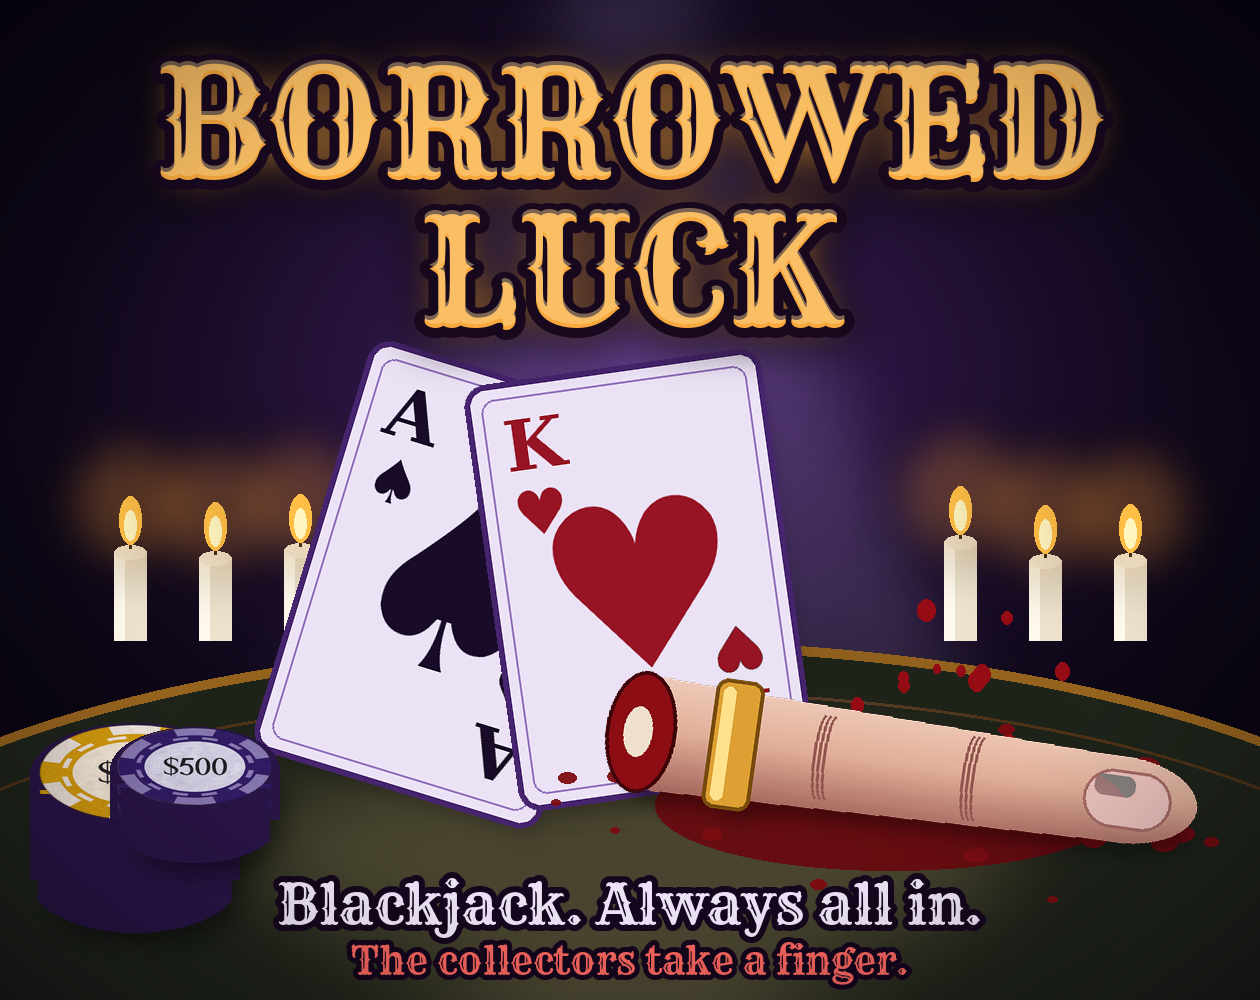
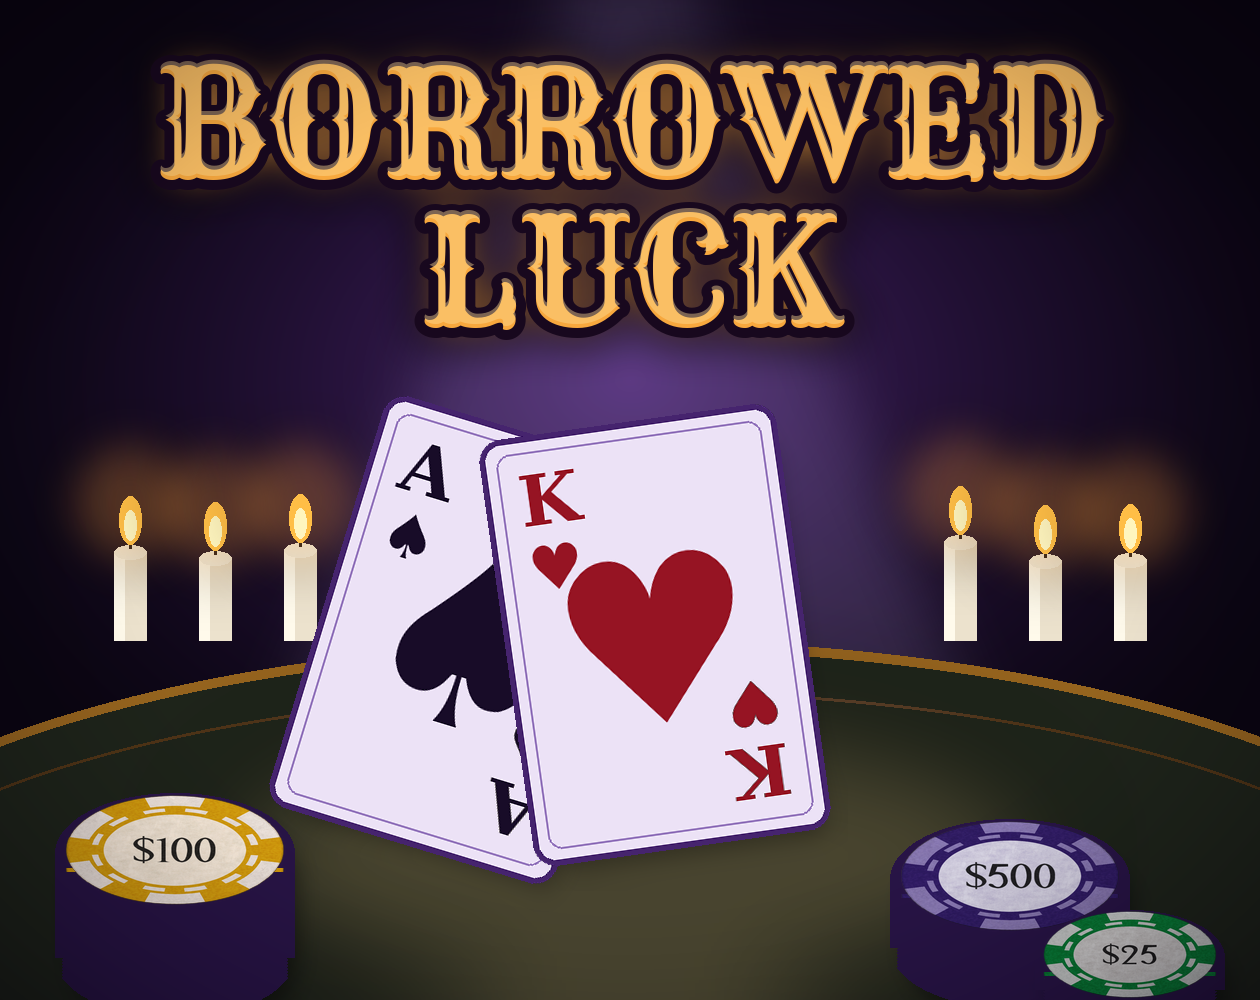
Cover without the finger and the bottom text

diff --git a/tools/make_cover.py b/tools/make_cover.py
@@ -1,5 +1,5 @@
 #!/usr/bin/env python3
-"""Draws the itch.io cover from scratch (no screenshot): a poster of the table, the cards, the chips and a lost finger.
+"""Draws the itch.io cover from scratch (no screenshot): a poster of the table, the cards, the candles and the chips.
 Usage: python3 tools/make_cover.py   ->  docs/itch/cover_630x500.png and cover_1260x1000.png
 Needs Pillow and numpy. Assets used: the chip pictures of the game and the Rye font."""
 import glob
@@ -260,14 +260,12 @@ def main():
         img = over(img, candle(cx, 640, 90 + rng.randint(-12, 12)))
     for cx in (960, 1045, 1130):
         img = over(img, candle(cx, 640, 90 + rng.randint(-12, 12)))
-    img = place(img, card(300, 430, "A", "\u2660", False), (455, 585), -17)
-    img = place(img, card(300, 430, "K", "\u2665", True), (640, 580), 8)
-    img = chip_stack(img, "100_Dollar_casino_chip_1.png", 135, 810, 6, 210)
-    img = chip_stack(img, "500_Dollar_casino_chip_1.png", 195, 760, 3, 170)
-    img = blood(img, 905, 800)
-    img = finger(img, 915, 770)
+    img = place(img, card(300, 430, "A", "\u2660", False), (470, 640), -17)
+    img = place(img, card(300, 430, "K", "\u2665", True), (655, 635), 8)
+    img = chip_stack(img, "100_Dollar_casino_chip_1.png", 175, 880, 6, 240)
+    img = chip_stack(img, "500_Dollar_casino_chip_1.png", 1010, 870, 4, 240)
+    img = chip_stack(img, "25_Dollar_casino_chip_1.png", 1130, 925, 2, 190)
     img = title(img)
-    img = tagline(img)
     img = vignette(img)
     out = img.convert("RGB")
     out.save(os.path.join(OUT, "cover_1260x1000.png"), optimize=True)
